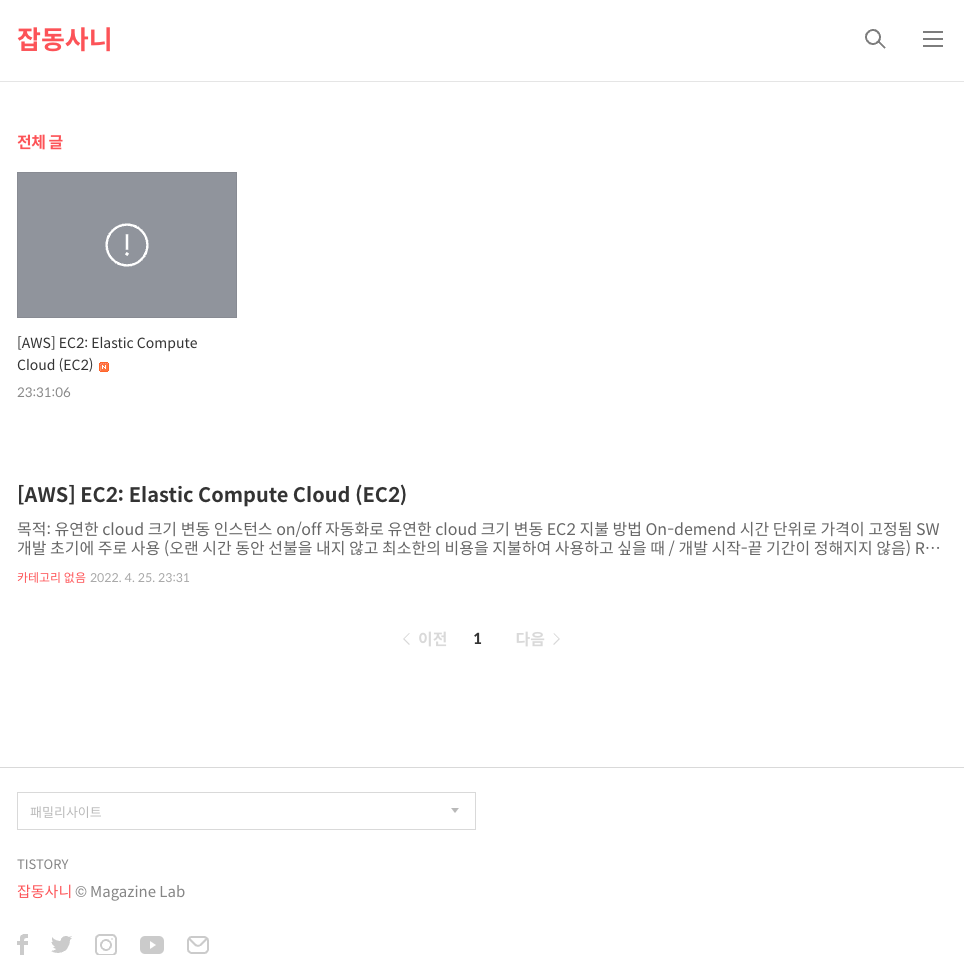
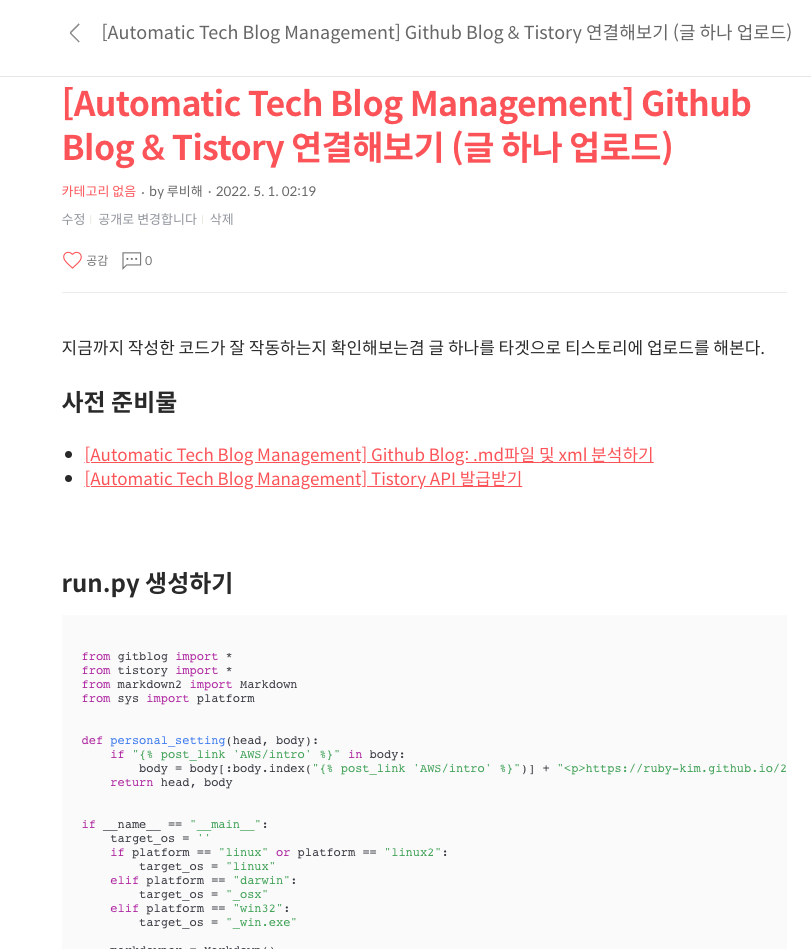
Site updated: 2022-05-01 03:06:21

diff --git a/2022/03/28/Projects/AutomaticTechBlogManagement/Gitblog-Tistory/index.html b/2022/03/28/Projects/AutomaticTechBlogManagement/Gitblog-Tistory/index.html
@@ -4,7 +4,7 @@
 
 <head>
     <meta charset="utf-8">
-    <meta name="keywords" content="[Automatic Tech Blog Management] Github Blog &amp; Tistory 연결해보기 (글 하나 업로드), 잡동사니">
+    <meta name="keywords" content="[Automatic Tech Blog Management] Github blog 포스트를 Tistory에 자동 업로드하기, 잡동사니">
     <meta name="description" content="Tistory API를 이용하여 Github Blog 포스트를 자동으로 하나 업로드 해보기">
     <meta http-equiv="X-UA-Compatible" content="IE=edge">
     <meta name="viewport" content="width=device-width, initial-scale=1.0, user-scalable=no">
@@ -28,7 +28,7 @@
 </script>
 
 
-    <title>[Automatic Tech Blog Management] Github Blog &amp; Tistory 연결해보기 (글 하나 업로드) | 잡동사니</title>
+    <title>[Automatic Tech Blog Management] Github blog 포스트를 Tistory에 자동 업로드하기 | 잡동사니</title>
     <link rel="icon" type="image/png" href="../../../../../../favicon.png">
 
     <link rel="stylesheet" type="text/css" href="../../../../../../libs/awesome/css/all.min.css">
@@ -308,7 +308,7 @@
         <div class="row">
             <div class="col s12 m12 l12">
                 <div class="brand">
-                    <h1 class="description center-align post-title">[Automatic Tech Blog Management] Github Blog &amp; Tistory 연결해보기 (글 하나 업로드)</h1>
+                    <h1 class="description center-align post-title">[Automatic Tech Blog Management] Github blog 포스트를 Tistory에 자동 업로드하기</h1>
                 </div>
             </div>
         </div>
@@ -490,14 +490,46 @@
 
 <h2 id="run-py-생성하기"><a href="#run-py-생성하기" class="headerlink" title="run.py 생성하기"></a>run.py 생성하기</h2><pre><code><pre class="line-numbers language-python" data-language="python"><code class="language-python">from gitblog import *
 from tistory import *
-from markdown2 import Markdown
+import markdown2
 from sys import platform
 
 
 def personal_setting(head, body):
-    if &quot;&#123;% post_link &#39;AWS&#x2F;intro&#39; %&#125;&quot; in body:
-        body &#x3D; body[:body.index(&quot;&#123;% post_link &#39;AWS&#x2F;intro&#39; %&#125;&quot;)] + &quot;&lt;p&gt;https:&#x2F;&#x2F;ruby-kim.github.io&#x2F;2022&#x2F;03&#x2F;15&#x2F;AWS&#x2F;intro&#x2F;&lt;&#x2F;p&gt;&quot;
-    return head, body
+    def code_line(text):
+        text &#x3D; text.split(&#39;\n&#39;)
+        for idx, b in enumerate(text):
+            if &quot;&#96;&#96;&#96;&quot; in b:
+                if &quot;&lt;pre&gt;&lt;code&gt;&quot; in b:
+                    text[idx] &#x3D; b[:11]
+                else:
+                    if len(b) &#x3D;&#x3D; 3:
+                        text[idx] &#x3D; &quot;&quot;
+        return &#39;\n&#39;.join(text)
+
+    return head, code_line(body)
+
+
+def create_post(githubBlog, tistory):
+flag &#x3D; 0
+for g_content in githubBlog.contents:
+    for t_content in tistory.contents:
+        if t_content[&quot;title&quot;] &#x3D;&#x3D; g_content[&quot;title&quot;]:
+            flag &#x3D; 1
+    if flag:
+        flag &#x3D; 0
+        continue
+    else:
+        path &#x3D; &#39;&#x2F;&#39; + &#39;&#x2F;&#39;.join(g_content[&quot;link&quot;].split(&#39;&#x2F;&#39;)[6:-1]) + &quot;.md&quot;
+        head, body &#x3D; githubBlog.parsing_md(path)
+        body &#x3D; markdown2.markdown(body)
+        head, body &#x3D; personal_setting(head, body)
+
+        tistory.posting(
+            head[&#39;title&#39;],
+            body,
+            head[&#39;categories&#39;],
+            head[&#39;tags&#39;],
+        )
 
 
 if __name__ &#x3D;&#x3D; &quot;__main__&quot;:
@@ -509,24 +541,35 @@ if __name__ &#x3D;&#x3D; &quot;__main__&quot;:
     elif platform &#x3D;&#x3D; &quot;win32&quot;:
         target_os &#x3D; &quot;_win.exe&quot;
     
-    markdowner &#x3D; Markdown()
     githubBlog &#x3D; GithubBlog(&quot;https:&#x2F;&#x2F;ruby-kim.github.io&quot;)
     tistory &#x3D; Tistory(&#39;https:&#x2F;&#x2F;dev-rubykim.tistory.com&#x2F;&#39;, target_os)
 
-    head, body &#x3D; githubBlog.parsing_md(&quot;&#x2F;AWS&#x2F;EC2.md&quot;)   # 각자 .md path 참고
-    head, body &#x3D; personal_setting(head, body)
-
     tistory.get_access_token()
-    tistory.posting(head[&#39;title&#39;], markdowner.convert(body), head[&#39;categories&#39;], head[&#39;tags&#39;])</code></pre>
+    githubBlog.parsing_xml()
+    tistory.parsing_rss()
+    tistory.toc_post()
+
+    create_post(githubBlog, tistory)</code></pre>
 </code></pre>
 <ul>
-<li><code>python-markdown2</code> 패키지를 사용하여 <code>.md</code> 파일을 <code>.html</code>로 변경 후 tistory에 업로드한다.</li>
+<li>전체적인 알고리즘은 <code>python-markdown2</code> 패키지를 사용하여 <code>.md</code> 파일을 <code>.html</code>로 변경 후 tistory에 업로드 하는 것이다.</li>
 <li>각자 로컬에서 실행하는 개발환경이 다른 점을 고려하여 platform 설정도 넣어놨다. (아래에 tistory 클래스 변경사항 참고)<ul>
 <li>따라서 Windows가 아닌 Linux, OS X를 사용하는 개발자는 자신의 개발환경에 맞춰 chromedriver 파일을 넣어준다.</li>
 </ul>
 </li>
-<li>hexo 백업용 repository의 <code>/source/_posts</code> 내의 데이터를 참고하여 <code>githubBlog.parsing_md</code>의 파라미터를 세팅해준다.</li>
-<li><code>personal_setting()</code>은 말 그대로 각자 작성한 <code>.md</code> 변환 결과물에서 변경되지 않은 부분이 있을 시 직접 세팅해주는 함수이다.</li>
+<li><code>create_post()</code> 함수는 github blog과 tistory의 포스트를 비교 후 해당 포스트가 없을 시 자동생성 및 업로드 해주는 코드이다.<ul>
+<li>코드 중 flag가 바로 중복 포스트 체크를 위한 변수이다.</li>
+<li>hexo 백업용 repository의 <code>/source/_posts</code> 내의 데이터에 접근하기 위해 각자의 github url을 파악 후 알맞게 세팅해준다.<ul>
+<li>현재 사용 중인 github blog는 **<a href="https://ruby-kim.github.io/YYYY/MM/DD/[.md%ED%8C%8C%EC%9D%BC">https://ruby-kim.github.io/YYYY/MM/DD/[.md파일</a> path]**로 되어 있으므로, 이에 따라 path를 다음과 같이 설정했다.</li>
+</ul>
+</li>
+<li><code>personal_setting()</code>은 말 그대로 각자 작성한 <code>.md</code> 변환 결과물에서 변경되지 않은 부분이 있을 시 직접 세팅해주는 함수이다.<ul>
+<li>56번째 줄의 결과물을 출력해보면 markdown에서 html로 변환 시 코드블럭에 관한 전처리가 덜 되어있음을 확인할 수 있다. (&#96;&#96;&#96;가 추가됨)</li>
+<li>따라서 해당 부분을 전처리하는 함수 <code>code_line()</code>를 <code>personal_setting()</code>에 선언 및 처리한다.</li>
+</ul>
+</li>
+</ul>
+</li>
 </ul>
 <br>
 
@@ -644,16 +687,16 @@ class Tistory:
 </code></pre>
 <ul>
 <li>결과물이 다음과 같이 나오면 성공적으로 티스토리에 업로드 된 것을 확인할 수 있다.<ul>
-<li><code>&#123;&quot;tistory&quot;:&#123;&quot;status&quot;:&quot;200&quot;,&quot;postId&quot;:&quot;12&quot;,&quot;url&quot;:&quot;https:\/\/dev-rubykim.tistory.com\/12&quot;&#125;&#125;</code> <img src="2.png"></li>
+<li><code>&#123;&quot;tistory&quot;:&#123;&quot;status&quot;:&quot;200&quot;,&quot;postId&quot;:&quot;12&quot;,&quot;url&quot;:&quot;https:\/\/dev-rubykim.tistory.com\/12&quot;&#125;&#125;</code><br><img src="2.png"></li>
 </ul>
 </li>
 </ul>
 <br>
 
 <h2 id="전체-코드"><a href="#전체-코드" class="headerlink" title="전체 코드"></a>전체 코드</h2><ul>
-<li><a target="_blank" rel="noopener" href="https://github.com/ruby-kim/automatic-tech-blog-management/blob/e6277ecf2fe8e32fc2aca466e969caf75a16c4b3/run.py">https://github.com/ruby-kim/automatic-tech-blog-management/blob/local/run.py</a></li>
-<li><a target="_blank" rel="noopener" href="https://github.com/ruby-kim/automatic-tech-blog-management/blob/e6277ecf2fe8e32fc2aca466e969caf75a16c4b3/tistory.py">https://github.com/ruby-kim/automatic-tech-blog-management/blob/local/tistory.py</a></li>
-<li><a target="_blank" rel="noopener" href="https://github.com/ruby-kim/automatic-tech-blog-management/blob/e6277ecf2fe8e32fc2aca466e969caf75a16c4b3/gitblog.py">https://github.com/ruby-kim/automatic-tech-blog-management/blob/local/gitblog.py</a></li>
+<li><a target="_blank" rel="noopener" href="https://github.com/ruby-kim/automatic-tech-blog-management/blob/83b54426b1f90f3e78bb742f1941f94ddc298ddd/run.py">https://github.com/ruby-kim/automatic-tech-blog-management/blob/local/run.py</a></li>
+<li><a target="_blank" rel="noopener" href="https://github.com/ruby-kim/automatic-tech-blog-management/blob/83b54426b1f90f3e78bb742f1941f94ddc298ddd/tistory.py">https://github.com/ruby-kim/automatic-tech-blog-management/blob/local/tistory.py</a></li>
+<li><a target="_blank" rel="noopener" href="https://github.com/ruby-kim/automatic-tech-blog-management/blob/83b54426b1f90f3e78bb742f1941f94ddc298ddd/gitblog.py">https://github.com/ruby-kim/automatic-tech-blog-management/blob/local/gitblog.py</a></li>
 </ul>
 <p><br><br></p>
 <h2 id="관련-포스트-더보기"><a href="#관련-포스트-더보기" class="headerlink" title="관련 포스트 더보기"></a>관련 포스트 더보기</h2><p><a href="https://ruby-kim.github.io/2022/03/16/Projects/AutomaticTechBlogManagement/Intro/">[Automatic Tech Blog Management] Intro</a></p>
@@ -813,9 +856,9 @@ class Tistory:
                 <a href="">
                     <div class="card-image">
                         
-                        <img src="../../../../../../coverImages/base.png" class="responsive-img" alt="[Automatic Tech Blog Management] Github Blog &amp; Tistory 연결해보기 (글 하나 업로드)">
+                        <img src="../../../../../../coverImages/base.png" class="responsive-img" alt="[Automatic Tech Blog Management] Github blog 포스트를 Tistory에 자동 업로드하기">
                         
-                        <span class="card-title">[Automatic Tech Blog Management] Github Blog &amp; Tistory 연결해보기 (글 하나 업로드)</span>
+                        <span class="card-title">[Automatic Tech Blog Management] Github blog 포스트를 Tistory에 자동 업로드하기</span>
                     </div>
                 </a>
                 <div class="card-content article-content">

diff --git a/archives/2022/03/index.html b/archives/2022/03/index.html
@@ -383,9 +383,9 @@
                         <a href="../../../2022/03/28/Projects/AutomaticTechBlogManagement/Gitblog-Tistory/">
                             <div class="card-image">
                                 
-                                <img src="../../../coverImages/base.png" class="responsive-img" alt="[Automatic Tech Blog Management] Github Blog &amp; Tistory 연결해보기 (글 하나 업로드)">
+                                <img src="../../../coverImages/base.png" class="responsive-img" alt="[Automatic Tech Blog Management] Github blog 포스트를 Tistory에 자동 업로드하기">
                                 
-                                <span class="card-title">[Automatic Tech Blog Management] Github Blog &amp; Tistory 연결해보기 (글 하나 업로드)</span>
+                                <span class="card-title">[Automatic Tech Blog Management] Github blog 포스트를 Tistory에 자동 업로드하기</span>
                             </div>
                         </a>
                         <div class="card-content article-content">

diff --git a/archives/2022/index.html b/archives/2022/index.html
@@ -383,9 +383,9 @@
                         <a href="../../2022/03/28/Projects/AutomaticTechBlogManagement/Gitblog-Tistory/">
                             <div class="card-image">
                                 
-                                <img src="../../coverImages/base.png" class="responsive-img" alt="[Automatic Tech Blog Management] Github Blog &amp; Tistory 연결해보기 (글 하나 업로드)">
+                                <img src="../../coverImages/base.png" class="responsive-img" alt="[Automatic Tech Blog Management] Github blog 포스트를 Tistory에 자동 업로드하기">
                                 
-                                <span class="card-title">[Automatic Tech Blog Management] Github Blog &amp; Tistory 연결해보기 (글 하나 업로드)</span>
+                                <span class="card-title">[Automatic Tech Blog Management] Github blog 포스트를 Tistory에 자동 업로드하기</span>
                             </div>
                         </a>
                         <div class="card-content article-content">

diff --git a/archives/index.html b/archives/index.html
@@ -383,9 +383,9 @@
                         <a href="../2022/03/28/Projects/AutomaticTechBlogManagement/Gitblog-Tistory/">
                             <div class="card-image">
                                 
-                                <img src="../coverImages/base.png" class="responsive-img" alt="[Automatic Tech Blog Management] Github Blog &amp; Tistory 연결해보기 (글 하나 업로드)">
+                                <img src="../coverImages/base.png" class="responsive-img" alt="[Automatic Tech Blog Management] Github blog 포스트를 Tistory에 자동 업로드하기">
                                 
-                                <span class="card-title">[Automatic Tech Blog Management] Github Blog &amp; Tistory 연결해보기 (글 하나 업로드)</span>
+                                <span class="card-title">[Automatic Tech Blog Management] Github blog 포스트를 Tistory에 자동 업로드하기</span>
                             </div>
                         </a>
                         <div class="card-content article-content">

diff --git a/categories/⚒-Projects/index.html b/categories/⚒-Projects/index.html
@@ -413,9 +413,9 @@
                     <a href="../../2022/03/28/Projects/AutomaticTechBlogManagement/Gitblog-Tistory/">
                         <div class="card-image tag-image">
                             
-                            <img src="../../coverImages/base.png" class="responsive-img" alt="[Automatic Tech Blog Management] Github Blog &amp; Tistory 연결해보기 (글 하나 업로드)">
+                            <img src="../../coverImages/base.png" class="responsive-img" alt="[Automatic Tech Blog Management] Github blog 포스트를 Tistory에 자동 업로드하기">
                             
-                            <span class="card-title">[Automatic Tech Blog Management] Github Blog &amp; Tistory 연결해보기 (글 하나 업로드)</span>
+                            <span class="card-title">[Automatic Tech Blog Management] Github blog 포스트를 Tistory에 자동 업로드하기</span>
                         </div>
                     </a>
                     <div class="card-content article-content">

diff --git a/tags/API/index.html b/tags/API/index.html
@@ -600,9 +600,9 @@
                     <a href="../../2022/03/28/Projects/AutomaticTechBlogManagement/Gitblog-Tistory/">
                         <div class="card-image tag-image">
                             
-                            <img src="../../coverImages/base.png" class="responsive-img" alt="[Automatic Tech Blog Management] Github Blog &amp; Tistory 연결해보기 (글 하나 업로드)">
+                            <img src="../../coverImages/base.png" class="responsive-img" alt="[Automatic Tech Blog Management] Github blog 포스트를 Tistory에 자동 업로드하기">
                             
-                            <span class="card-title">[Automatic Tech Blog Management] Github Blog &amp; Tistory 연결해보기 (글 하나 업로드)</span>
+                            <span class="card-title">[Automatic Tech Blog Management] Github blog 포스트를 Tistory에 자동 업로드하기</span>
                         </div>
                     </a>
                     <div class="card-content article-content">

diff --git a/tags/Crawling/index.html b/tags/Crawling/index.html
@@ -600,9 +600,9 @@
                     <a href="../../2022/03/28/Projects/AutomaticTechBlogManagement/Gitblog-Tistory/">
                         <div class="card-image tag-image">
                             
-                            <img src="../../coverImages/base.png" class="responsive-img" alt="[Automatic Tech Blog Management] Github Blog &amp; Tistory 연결해보기 (글 하나 업로드)">
+                            <img src="../../coverImages/base.png" class="responsive-img" alt="[Automatic Tech Blog Management] Github blog 포스트를 Tistory에 자동 업로드하기">
                             
-                            <span class="card-title">[Automatic Tech Blog Management] Github Blog &amp; Tistory 연결해보기 (글 하나 업로드)</span>
+                            <span class="card-title">[Automatic Tech Blog Management] Github blog 포스트를 Tistory에 자동 업로드하기</span>
                         </div>
                     </a>
                     <div class="card-content article-content">

diff --git a/tags/Parsing/index.html b/tags/Parsing/index.html
@@ -600,9 +600,9 @@
                     <a href="../../2022/03/28/Projects/AutomaticTechBlogManagement/Gitblog-Tistory/">
                         <div class="card-image tag-image">
                             
-                            <img src="../../coverImages/base.png" class="responsive-img" alt="[Automatic Tech Blog Management] Github Blog &amp; Tistory 연결해보기 (글 하나 업로드)">
+                            <img src="../../coverImages/base.png" class="responsive-img" alt="[Automatic Tech Blog Management] Github blog 포스트를 Tistory에 자동 업로드하기">
                             
-                            <span class="card-title">[Automatic Tech Blog Management] Github Blog &amp; Tistory 연결해보기 (글 하나 업로드)</span>
+                            <span class="card-title">[Automatic Tech Blog Management] Github blog 포스트를 Tistory에 자동 업로드하기</span>
                         </div>
                     </a>
                     <div class="card-content article-content">

diff --git a/2022/03/26/AWS/Route53/index.html b/2022/03/26/AWS/Route53/index.html
@@ -654,9 +654,9 @@
                 <a href="../../../28/Projects/AutomaticTechBlogManagement/Gitblog-Tistory/">
                     <div class="card-image">
                         
-                        <img src="../../../../../coverImages/base.png" class="responsive-img" alt="[Automatic Tech Blog Management] Github Blog &amp; Tistory 연결해보기 (글 하나 업로드)">
+                        <img src="../../../../../coverImages/base.png" class="responsive-img" alt="[Automatic Tech Blog Management] Github blog 포스트를 Tistory에 자동 업로드하기">
                         
-                        <span class="card-title">[Automatic Tech Blog Management] Github Blog &amp; Tistory 연결해보기 (글 하나 업로드)</span>
+                        <span class="card-title">[Automatic Tech Blog Management] Github blog 포스트를 Tistory에 자동 업로드하기</span>
                     </div>
                 </a>
                 <div class="card-content article-content">

diff --git a/index.html b/index.html
@@ -554,9 +554,9 @@
                     <a href="2022/03/28/Projects/AutomaticTechBlogManagement/Gitblog-Tistory/">
                         <div class="card-image">
                             
-                            <img src="/coverImages/base.png" class="responsive-img" alt="[Automatic Tech Blog Management] Github Blog &amp; Tistory 연결해보기 (글 하나 업로드)">
+                            <img src="/coverImages/base.png" class="responsive-img" alt="[Automatic Tech Blog Management] Github blog 포스트를 Tistory에 자동 업로드하기">
                             
-                            <span class="card-title">[Automatic Tech Blog Management] Github Blog &amp; Tistory 연결해보기 (글 하나 업로드)</span>
+                            <span class="card-title">[Automatic Tech Blog Management] Github blog 포스트를 Tistory에 자동 업로드하기</span>
                         </div>
                     </a>
 
